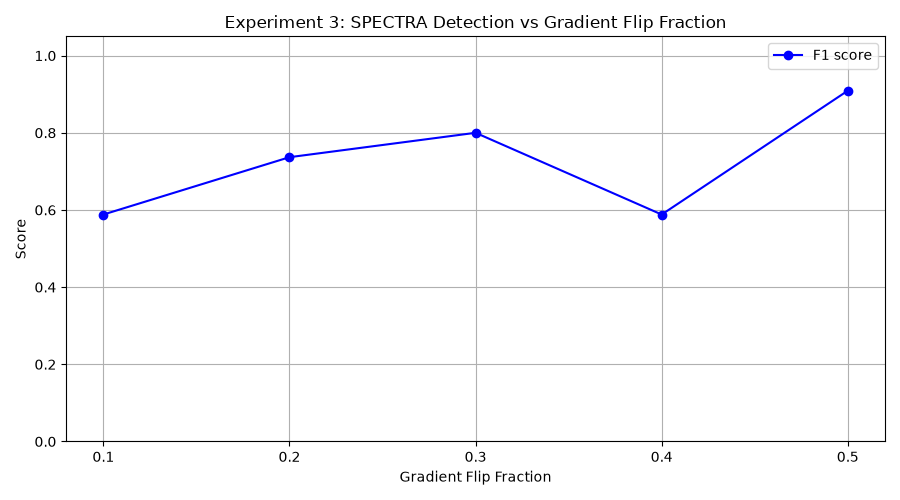
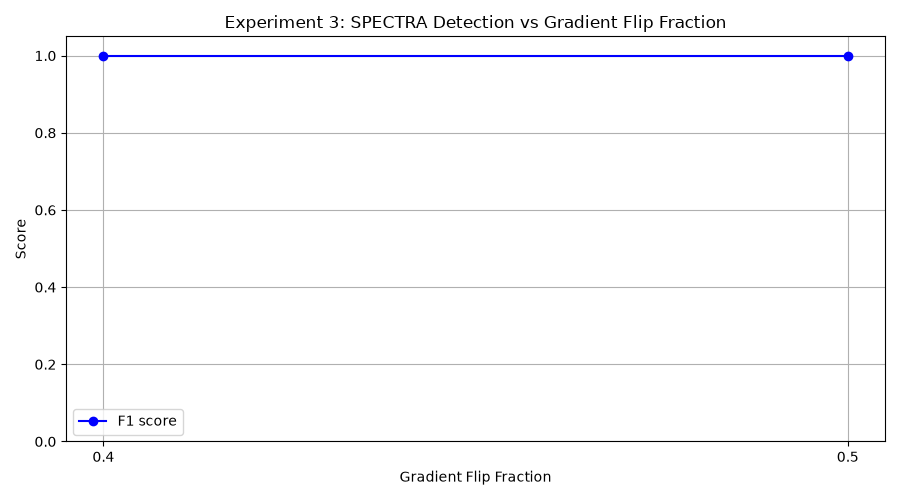
Improved Flagging

diff --git a/SensitivityExperiment/Experiment3.py b/SensitivityExperiment/Experiment3.py
@@ -31,7 +31,11 @@ Sweep
   The full pipeline (miner → AT training → 20 scientist runs → metrics) is
   repeated for each gradient-flip fraction in {0.1, 0.2, 0.3, 0.4, 0.5}
   (i.e. 10 %, 20 %, 30 %, 40 %, 50 % of gradient entries sign-flipped in
-  malicious runs).  The input-vector size is fixed at 96 for every run.
+  malicious runs).  Each snapshot is the 7 phase-invariant scalar features
+  plus a small block of basis-invariant gradient-distribution statistics
+  (sign balance, magnitude quantiles, skew/kurtosis, per-layer norms) —
+  no raw per-coordinate gradient values, since those aren't comparable
+  across runs with different random seeds.
 
 Usage
 -----
@@ -142,14 +146,18 @@ def resolve_device(device_arg):
     return torch.device("cuda" if torch.cuda.is_available() else "cpu")
 
 
+EFF_SIGNAL_COL = 2  # index of effective_signal within the snapshot vector
+
+
 def run_experiment(
     dataset_path, target_col,
-    input_vec_size, flip_fracs, window_size, flag_frac,
+    flip_fracs, window_size, flag_frac,
     miner_snap_cfg, snap_cfg, at_cfg,
     n_benign, n_malicious, train_frac,
     out_csv, out_png,
     device="auto", cutoff=0.5,
     benign_seed_base=1000, malicious_seed_base=2000,
+    eff_signal_ratio=0.3,
 ):
     device = resolve_device(device)
     print(f"Device: {device}")
@@ -168,14 +176,13 @@ def run_experiment(
 
     with tempfile.TemporaryDirectory() as tmpdir:
 
-        # ── Miner phase (run once, input-vector size fixed at 96) ───────────
+        # ── Miner phase (run once) ───────────────────────────────────────
         print("  [Miner] Training model and collecting snapshots...")
-        miner_csv = os.path.join(tmpdir, f"miner_{input_vec_size}.csv")
+        miner_csv = os.path.join(tmpdir, "miner.csv")
         miner_snaps = snapshot_run(
             data_path=dataset_path,
             target_col=target_col,
             out_csv=miner_csv,
-            input_vec_size=input_vec_size,
             batch_size=miner_snap_cfg["batch_size"],
             n_epochs=miner_snap_cfg["n_epochs"],
             lr=miner_snap_cfg["lr"],
@@ -200,6 +207,26 @@ def run_experiment(
             )
         print(f"  [AT] Threshold: {threshold:.4f}")
 
+        # ── Secondary detector: mean effective_signal over the run ────────
+        # The AT's windowed reconstruction score reliably catches strong
+        # attacks (flip_frac=0.5) but dilutes weaker ones: effective_signal
+        # (grad_mean^2 / (grad_mean^2 + grad_std^2)) drops sharply even at
+        # flip_frac=0.4 (5-40x lower than benign, no overlap in quick
+        # diagnostics), but that drop gets buried inside the AT's blended
+        # 16-dimensional reconstruction error alongside noisier features
+        # (skew/kurtosis swing wildly run to run). Thresholding on this one
+        # feature's run-mean directly, calibrated from the miner's own
+        # snapshots, catches what the AT's combined score misses.
+        # effective_signal is non-negative and heavily skewed toward zero
+        # (its own std is close to its mean), so "mean - k*std" easily goes
+        # negative and becomes an unreachable cutoff. A ratio of the miner's
+        # mean stays positive and scales naturally with the feature instead.
+        miner_eff_signal = miner_snaps[:, EFF_SIGNAL_COL]
+        eff_signal_mean = float(miner_eff_signal.mean())
+        eff_signal_cutoff = eff_signal_mean * eff_signal_ratio
+        print(f"  [EffSignal] miner mean={eff_signal_mean:.5f}  "
+              f"cutoff={eff_signal_cutoff:.5f} (eff_signal_ratio={eff_signal_ratio})")
+
         for flip_frac in flip_fracs:
             print(f"\n{'='*64}")
             print(f"Gradient flip fraction: {flip_frac}")
@@ -215,7 +242,6 @@ def run_experiment(
                     data_path=dataset_path,
                     target_col=target_col,
                     out_csv=sci_csv,
-                    input_vec_size=input_vec_size,
                     batch_size=snap_cfg["batch_size"],
                     n_epochs=snap_cfg["n_epochs"],
                     lr=snap_cfg["lr"],
@@ -229,10 +255,14 @@ def run_experiment(
                 sci_snaps = sci_snaps[:int(len(sci_snaps) * cutoff)]
                 frac = _score_run(at_model, sci_snaps, window_size, threshold,
                                   norm_mean, norm_std, at_cfg, device)
-                pred = (1 if frac > flag_frac else 0) if frac is not None else -1
+                eff_mean = float(sci_snaps[:, EFF_SIGNAL_COL].mean())
+                at_pred  = (1 if frac > flag_frac else 0) if frac is not None else -1
+                eff_pred = 1 if eff_mean < eff_signal_cutoff else 0
+                pred = at_pred if at_pred < 0 else (1 if (at_pred == 1 or eff_pred == 1) else 0)
                 run_records.append({"actual": 0, "predicted": pred, "frac": frac})
                 frac_str = f"{frac:.3f}" if frac is not None else "N/A"
-                print(f"  Benign   run {i+1:2d}: flagged={frac_str}  → {'BAD' if pred == 1 else 'ok'}")
+                print(f"  Benign   run {i+1:2d}: flagged={frac_str}  eff_signal={eff_mean:.5f}  "
+                      f"→ {'BAD' if pred == 1 else 'ok'}")
 
             for i in range(n_malicious):
                 seed = malicious_seed_base + i
@@ -241,7 +271,6 @@ def run_experiment(
                     data_path=dataset_path,
                     target_col=target_col,
                     out_csv=sci_csv,
-                    input_vec_size=input_vec_size,
                     batch_size=snap_cfg["batch_size"],
                     n_epochs=snap_cfg["n_epochs"],
                     lr=snap_cfg["lr"],
@@ -256,10 +285,14 @@ def run_experiment(
                 sci_snaps = sci_snaps[:int(len(sci_snaps) * cutoff)]
                 frac = _score_run(at_model, sci_snaps, window_size, threshold,
                                   norm_mean, norm_std, at_cfg, device)
-                pred = (1 if frac > flag_frac else 0) if frac is not None else -1
+                eff_mean = float(sci_snaps[:, EFF_SIGNAL_COL].mean())
+                at_pred  = (1 if frac > flag_frac else 0) if frac is not None else -1
+                eff_pred = 1 if eff_mean < eff_signal_cutoff else 0
+                pred = at_pred if at_pred < 0 else (1 if (at_pred == 1 or eff_pred == 1) else 0)
                 run_records.append({"actual": 1, "predicted": pred, "frac": frac})
                 frac_str = f"{frac:.3f}" if frac is not None else "N/A"
-                print(f"  Malicious run {i+1:2d}: flagged={frac_str}  → {'BAD' if pred == 1 else 'ok'}")
+                print(f"  Malicious run {i+1:2d}: flagged={frac_str}  eff_signal={eff_mean:.5f}  "
+                      f"→ {'BAD' if pred == 1 else 'ok'}")
 
             # ── Metrics ──────────────────────────────────────────────────────
             valid = [r for r in run_records if r["predicted"] >= 0]
@@ -328,15 +361,18 @@ def parse_args():
     p.add_argument("--target-col",      required=True,  help="Target column name")
     p.add_argument("--train-frac",      type=float, default=0.3,
                    help="Fraction of data given to miners")
-    p.add_argument("--input-vec-size",  type=int, default=96,
-                   help="Snapshot feature-vector size (fixed across the sweep)")
     p.add_argument("--flip-fracs",      type=float, nargs="+",
-                   default=[0.1, 0.2, 0.3, 0.4, 0.5], metavar="F",
+                   default=[0.4, 0.5], metavar="F",
                    help="Gradient sign-flip fractions to sweep for malicious runs")
     p.add_argument("--window-size",     type=int, default=30,
                    help="AT sliding-window length in timesteps")
     p.add_argument("--flag-frac",       type=float, default=0.2,
                    help="Flagged-fraction threshold to classify a run as malicious")
+    p.add_argument("--eff-signal-ratio", type=float, default=0.3,
+                   help="A run is also predicted malicious if its mean "
+                        "effective_signal falls below "
+                        "eff_signal_ratio * miner_mean (catches weaker "
+                        "attacks the AT's blended score dilutes)")
     p.add_argument("--n-benign",        type=int, default=10)
     p.add_argument("--n-malicious",     type=int, default=10)
     p.add_argument("--benign-seed-base",    type=int, default=1000,
@@ -411,10 +447,10 @@ if __name__ == "__main__":
     run_experiment(
         dataset_path=os.path.abspath(args.dataset),
         target_col=args.target_col,
-        input_vec_size=args.input_vec_size,
         flip_fracs=args.flip_fracs,
         window_size=args.window_size,
         flag_frac=args.flag_frac,
+        eff_signal_ratio=args.eff_signal_ratio,
         miner_snap_cfg=miner_snap_cfg,
         snap_cfg=snap_cfg,
         at_cfg=at_cfg,

diff --git a/SensitivityExperiment/snapshot_trainer.py b/SensitivityExperiment/snapshot_trainer.py
@@ -62,13 +62,19 @@ def load_full_dataset(path, target_col):
     return X, y
 
 
-def extract_snapshot(model, loss_val, input_vec_size, prev_loss=0.0, prev_all_w=None):
-    """Return a 1-D numpy array of exactly `input_vec_size` features.
+def extract_snapshot(model, loss_val, prev_loss=0.0, prev_all_w=None):
+    """Return a 1-D numpy array: 7 phase-invariant dynamics scalars followed by
+    a small block of basis-invariant gradient-distribution statistics.
 
-    The first 7 slots are phase-invariant dynamics features designed to expose
-    Byzantine gradient attacks regardless of where in training a run is.
-    Remaining slots are uniformly sampled gradient values so the AT can see
-    the raw sign distribution (50% sign-flip makes it near-symmetric).
+    Raw per-coordinate gradient values (sampled or otherwise) are deliberately
+    excluded. Two runs with different random seeds have their hidden units in
+    different, arbitrarily permuted/rotated bases, so the same *semantic*
+    gradient can land at different flattened coordinates across runs.
+    Comparing raw coordinates across independently-initialized models
+    therefore injects nuisance variance that swamps the actual attack
+    signal. Summary statistics of the gradient distribution (sign balance,
+    magnitude quantiles, shape) are invariant to that permutation/rotation
+    and still shift visibly under a sign-flip attack.
     """
     weights, grads = [], []
     for module in model.modules():
@@ -100,15 +106,26 @@ def extract_snapshot(model, loss_val, input_vec_size, prev_loss=0.0, prev_all_w=
         w_norm,
     ], dtype=np.float32)
 
-    n_scalar = len(scalars)  # always 7
+    # Basis-invariant gradient-distribution statistics (no raw coordinates).
+    frac_pos = (all_g > 0).float().mean().item()
+    abs_g = all_g.abs()
+    q10, q50, q90 = torch.quantile(
+        abs_g, torch.tensor([0.1, 0.5, 0.9], device=all_g.device)
+    ).tolist()
+    g_z = (all_g - g_mean) / g_std
+    skew     = (g_z ** 3).mean().item()
+    kurtosis = (g_z ** 4).mean().item() - 3.0
+    layer_norms = [g.norm(2).item() for g in grads] if grads else [0.0] * len(weights)
 
-    if input_vec_size <= n_scalar:
-        return scalars[:input_vec_size]
+    dist_stats = np.array([
+        frac_pos,
+        q10, q50, q90,
+        skew,
+        kurtosis,
+        *layer_norms,
+    ], dtype=np.float32)
 
-    n_sample = input_vec_size - n_scalar
-    indices = torch.linspace(0, len(all_g) - 1, n_sample).long()
-    sampled = all_g[indices].detach().cpu().numpy().astype(np.float32)
-    return np.concatenate([scalars, sampled])
+    return np.concatenate([scalars, dist_stats])
 
 
 def gradient_norm(model):
@@ -119,7 +136,7 @@ def gradient_norm(model):
     return math.sqrt(total)
 
 
-def run(data_path, target_col, out_csv, input_vec_size=7,
+def run(data_path, target_col, out_csv,
         batch_size=64, n_epochs=5, lr=1e-3, hidden=64,
         is_malicious=False, flip_frac=0.5, seed=None, X_data=None, y_data=None, device=None):
     """Train a SimpleMLP and collect per-batch snapshots.
@@ -127,7 +144,6 @@ def run(data_path, target_col, out_csv, input_vec_size=7,
     Parameters
     ----------
     data_path / target_col : used only when X_data / y_data are not provided.
-    input_vec_size         : number of features in each snapshot row.
     is_malicious           : if True, apply a Byzantine gradient attack
                              (random sign-flip of `flip_frac` of each
                              gradient tensor, each batch).
@@ -139,7 +155,7 @@ def run(data_path, target_col, out_csv, input_vec_size=7,
 
     Returns
     -------
-    numpy array of shape (n_total_batches, input_vec_size)
+    numpy array of shape (n_total_batches, 7 + n_gradient_entries)
     """
     device = device or torch.device("cpu")
 
@@ -184,7 +200,7 @@ def run(data_path, target_col, out_csv, input_vec_size=7,
                             p.grad.data[mask] *= -1.0
 
             optimizer.step()
-            snapshots.append(extract_snapshot(model, loss.item(), input_vec_size,
+            snapshots.append(extract_snapshot(model, loss.item(),
                                               prev_loss, prev_all_w))
 
             with torch.no_grad():
@@ -196,8 +212,8 @@ def run(data_path, target_col, out_csv, input_vec_size=7,
 
     arr = np.array(snapshots, dtype=np.float32)
 
-    if out_csv:
-        fieldnames = ["batch_idx"] + [f"f{i}" for i in range(input_vec_size)]
+    if out_csv and snapshots:
+        fieldnames = ["batch_idx"] + [f"f{i}" for i in range(len(snapshots[0]))]
         with open(out_csv, "w", newline="") as f:
             writer = csv.DictWriter(f, fieldnames=fieldnames)
             writer.writeheader()
@@ -216,7 +232,6 @@ if __name__ == "__main__":
     parser.add_argument("--dataset",        required=True)
     parser.add_argument("--target-col",     required=True)
     parser.add_argument("--out",            default="snapshots.csv")
-    parser.add_argument("--input-vec-size", type=int,   default=7)
     parser.add_argument("--batch-size",     type=int,   default=64)
     parser.add_argument("--n-epochs",       type=int,   default=5)
     parser.add_argument("--lr",             type=float, default=1e-3)
@@ -230,7 +245,6 @@ if __name__ == "__main__":
         data_path=args.dataset,
         target_col=args.target_col,
         out_csv=args.out,
-        input_vec_size=args.input_vec_size,
         batch_size=args.batch_size,
         n_epochs=args.n_epochs,
         lr=args.lr,
